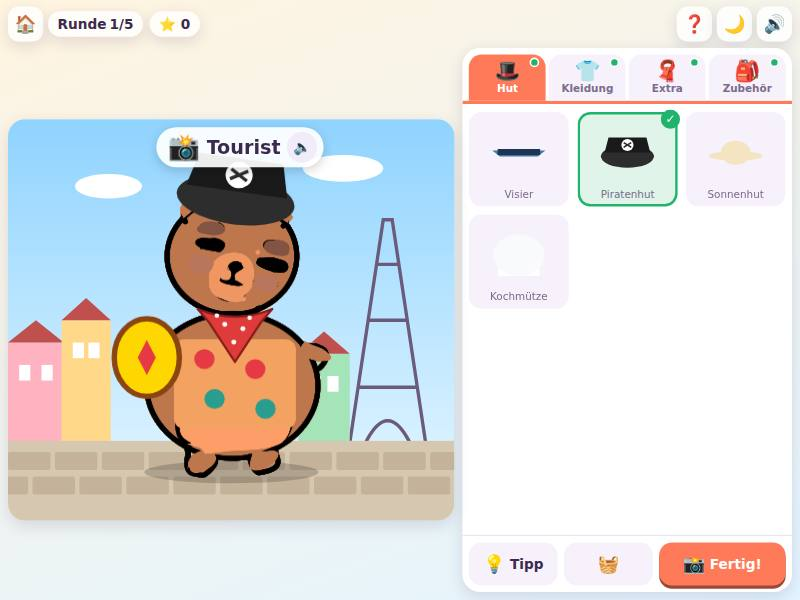
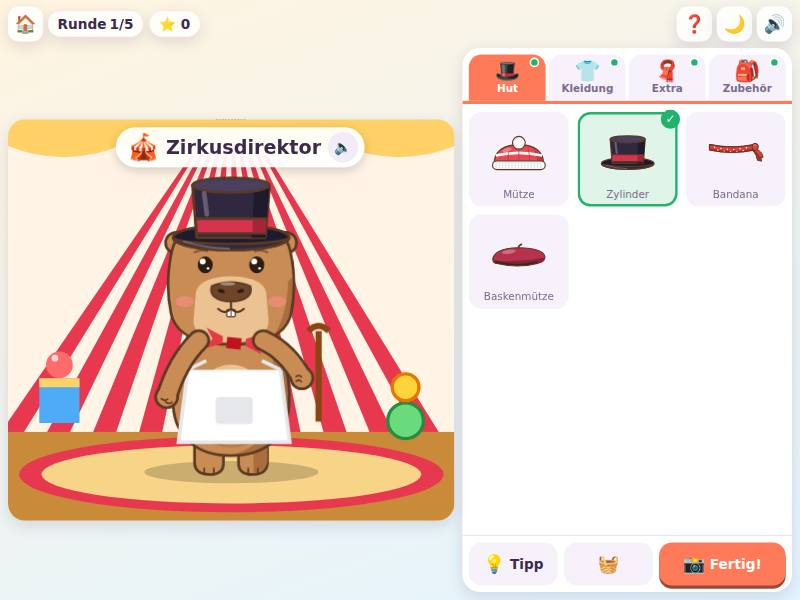
Capybara-Modenschau: ears lower and further out
The ears now sit at the sides of the head; the ear muffs follow.

Claude-Session: https://claude.ai/code/session_01M7wP2W5AL2J2jsTdGDXtSF

diff --git a/anziehen_2/art/capybara.js b/anziehen_2/art/capybara.js
@@ -46,8 +46,8 @@
     '<path d="M104 262Q120 268 136 262" stroke="' + SH + '" stroke-width="2" fill="none" stroke-linecap="round" opacity=".6"/>' +
     '<path d="' + BODY + '" fill="none" stroke="' + O + '" stroke-width="2.5" stroke-linejoin="round"/>' +
     // Ohren (klein und rund)
-    '<circle cx="78" cy="61" r="10" fill="' + FUR + '" stroke="' + O + '" stroke-width="2.5"/><circle cx="79" cy="62.5" r="4.8" fill="' + EAR + '"/>' +
-    '<circle cx="162" cy="61" r="10" fill="' + FUR + '" stroke="' + O + '" stroke-width="2.5"/><circle cx="161" cy="62.5" r="4.8" fill="' + EAR + '"/>' +
+    '<circle cx="69" cy="71" r="10" fill="' + FUR + '" stroke="' + O + '" stroke-width="2.5"/><circle cx="70.5" cy="72.5" r="4.8" fill="' + EAR + '"/>' +
+    '<circle cx="171" cy="71" r="10" fill="' + FUR + '" stroke="' + O + '" stroke-width="2.5"/><circle cx="169.5" cy="72.5" r="4.8" fill="' + EAR + '"/>' +
     // Kopf (kastenförmig, breite stumpfe Schnauze)
     '<path d="' + HEAD + '" fill="' + FUR + '"/>' +
     '<path d="M177 104C180 128 175 150 158 162C168 148 173 130 173 108Z" fill="' + SH + '"/>' +
@@ -125,7 +125,7 @@
       headTop: [120, 54],          // Scheitel (Kopfoberkante Mitte)
       hatLine: 64,                 // hier sitzt die Hutkrempe / das Hutband
       hatWidth: [65, 175],         // Kopfbreite auf der Hutlinie
-      ears: [[78, 61], [162, 61]], // Ohr-Mittelpunkte, Radius 10
+      ears: [[69, 71], [171, 71]], // Ohr-Mittelpunkte, Radius 10
       eyes: [[96, 92], [144, 92]], // Augen-Mittelpunkte (rx 7, ry 8)
       eyeLine: 92,
       nose: [120, 117],

diff --git a/anziehen_2/art/kopf.js b/anziehen_2/art/kopf.js
@@ -149,10 +149,10 @@
       return s + '<circle cx="' + cx + '" cy="' + cy + '" r="11" fill="#ff9ecb"/><circle cx="' + cx + '" cy="' + cy + '" r="7" fill="#ffc4e0"/>' +
         '<circle cx="' + (cx - 5) + '" cy="' + (cy - 6) + '" r="3"' + HL + '/>';
     }
-    add('ohrenschützer', [52, 38, 136, 48],
-      '<path d="M76 62Q74 42 120 46Q166 42 164 62" stroke="' + O + '" stroke-width="9" fill="none" stroke-linecap="round"/>' +
-      '<path d="M76 62Q74 42 120 46Q166 42 164 62" stroke="#8e7cc3" stroke-width="4.5" fill="none" stroke-linecap="round"/>' +
-      muff(74, 64) + muff(166, 64),
+    add('ohrenschützer', [46, 36, 148, 54],
+      '<path d="M70 69Q64 40 120 44Q176 40 170 69" stroke="' + O + '" stroke-width="9" fill="none" stroke-linecap="round"/>' +
+      '<path d="M70 69Q64 40 120 44Q176 40 170 69" stroke="#8e7cc3" stroke-width="4.5" fill="none" stroke-linecap="round"/>' +
+      muff(69, 72) + muff(171, 72),
       { keepOrange: true });
   })();
 

diff --git a/anziehen_2/art/STYLE.md b/anziehen_2/art/STYLE.md
@@ -39,7 +39,7 @@ Zeichenfläche **240 × 300**, x nach rechts, y nach unten, Mitte x = 120. „Li
 |---|---|
 | Scheitel (Kopfoberkante Mitte) | (120, 54) |
 | Hutlinie (Krempe / Hutband sitzt hier) | y = 64, Kopfbreite dort x 65 … 175 |
-| Ohren (Kreise r 10) | (78, 61), (162, 61) – Oberkante y ≈ 51 |
+| Ohren (Kreise r 10) | (69, 71), (171, 71) – seitlich am Kopf, Oberkante y ≈ 61 |
 | Kopfmitte | (120, 110); Kopf x 61 … 179, y 54 … 168 |
 | Augen (rx 7, ry 8) / Augenlinie | (96, 92), (144, 92); Brauen bei y ≈ 78 |
 | Nase / Mund / Kinn | (120, 117) / (120, 134) / (120, 168) |
